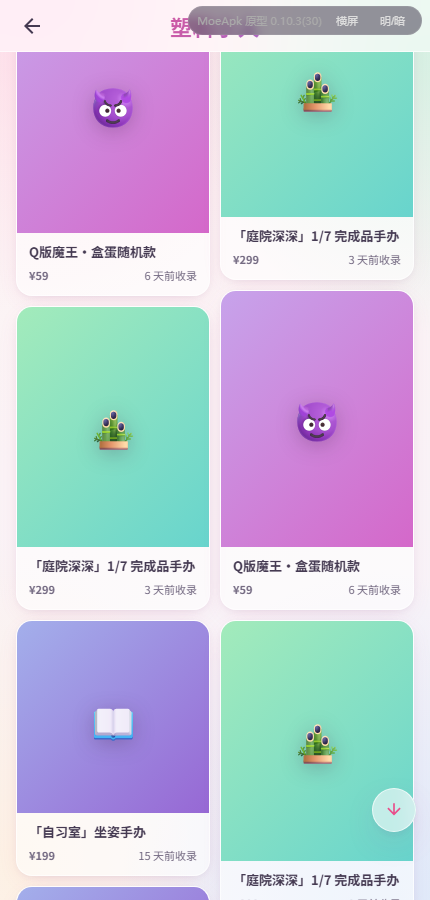
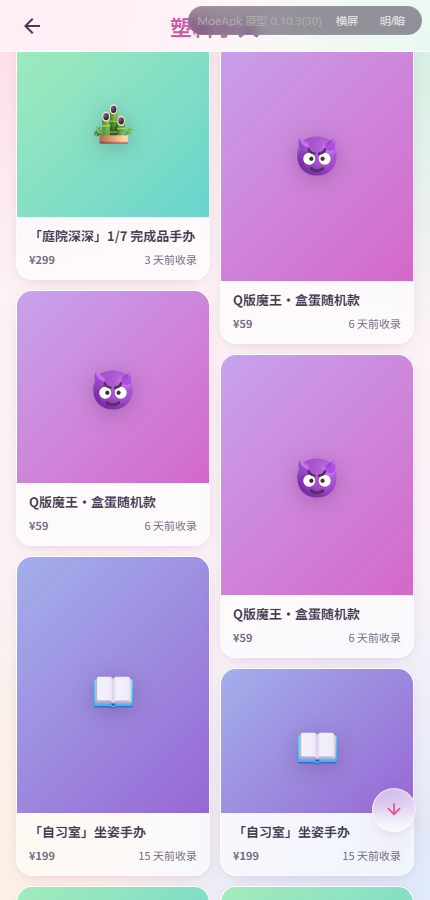
原型: 修复瀑布流滚到底冻住一拍——滚动近底追加批次改只往列表尾部插 DOM 不走整页 render（滚动途中全量重建会打断滚轮平滑滚动动画、逐帧全量重排，上下都动不了），批次计数仍存 S.x 供后续 render 按原长度还原；走查加滚轮连击帧耗回归断言（18ms）；design-notes 第十七轮补修订记录、数据管线备注隐去内网模型部署细节；资源版本号 v=40；PROTO_COMMIT 更新至 267d5aa

diff --git a/index.html b/index.html
@@ -6,7 +6,7 @@
 <title>MoeApk App 原型</title>
 <meta name="theme-color" content="#E94E8A">
 <link rel="icon" type="image/png" href="assets/ic_launcher_fg.png">
-<link rel="stylesheet" href="css/app.css?v=39">
+<link rel="stylesheet" href="css/app.css?v=40">
 </head>
 <body>
 <div class="proto-bar">
@@ -19,30 +19,30 @@
 </div>
 
 <!-- 数据快照（内嵌为全局变量，file:// 直接可开） -->
-<script src="js/data/catalog.js?v=39"></script>
-<script src="js/data/open.js?v=39"></script>
-<script src="js/data/ai.js?v=39"></script>
-<script src="js/data/goods.js?v=39"></script>
+<script src="js/data/catalog.js?v=40"></script>
+<script src="js/data/open.js?v=40"></script>
+<script src="js/data/ai.js?v=40"></script>
+<script src="js/data/goods.js?v=40"></script>
 <!-- 核心层 -->
-<script src="js/icons.js?v=39"></script>
-<script src="js/theme.js?v=39"></script>
-<script src="js/store.js?v=39"></script>
-<script src="js/mock.js?v=39"></script>
-<script src="js/ui.js?v=39"></script>
+<script src="js/icons.js?v=40"></script>
+<script src="js/theme.js?v=40"></script>
+<script src="js/store.js?v=40"></script>
+<script src="js/mock.js?v=40"></script>
+<script src="js/ui.js?v=40"></script>
 <!-- 页面（与 Compose 源文件一一对照，见 README 对照表） -->
-<script src="js/screens/apk.js?v=39"></script>
-<script src="js/screens/goods.js?v=39"></script>
-<script src="js/screens/assets.js?v=39"></script>
-<script src="js/screens/ai.js?v=39"></script>
-<script src="js/screens/ai-llm.js?v=39"></script>
-<script src="js/screens/ai-diffusion.js?v=39"></script>
-<script src="js/screens/ai-tts.js?v=39"></script>
-<script src="js/screens/ai-models.js?v=39"></script>
-<script src="js/screens/download.js?v=39"></script>
-<script src="js/screens/mine.js?v=39"></script>
-<script src="js/screens/pages-account.js?v=39"></script>
-<script src="js/screens/about.js?v=39"></script>
-<script src="js/screens/wallpaper-dialog.js?v=39"></script>
+<script src="js/screens/apk.js?v=40"></script>
+<script src="js/screens/goods.js?v=40"></script>
+<script src="js/screens/assets.js?v=40"></script>
+<script src="js/screens/ai.js?v=40"></script>
+<script src="js/screens/ai-llm.js?v=40"></script>
+<script src="js/screens/ai-diffusion.js?v=40"></script>
+<script src="js/screens/ai-tts.js?v=40"></script>
+<script src="js/screens/ai-models.js?v=40"></script>
+<script src="js/screens/download.js?v=40"></script>
+<script src="js/screens/mine.js?v=40"></script>
+<script src="js/screens/pages-account.js?v=40"></script>
+<script src="js/screens/about.js?v=40"></script>
+<script src="js/screens/wallpaper-dialog.js?v=40"></script>
 <script>
   nav.applyHash();
 </script>

diff --git a/js/screens/goods.js b/js/screens/goods.js
@@ -261,17 +261,21 @@
   }
 
   // 无限瀑布流：接近底部（1.2 屏阈值，提前续上不露白）追加一批。
-  // 同屏重渲染由 scrollMem 保持滚动位置，已加载批次经 S.x.goodsBatches 还原
+  // 只往 .g-falls 尾部插 DOM，绝不走 render——滚动途中整页重建会打断滚轮动画、
+  // 主线程逐帧全量重排（滚到底冻住一拍、上下都动不了的根因）。批次计数照记 S.x，
+  // 之后任何 render（回顶按钮显隐等）都按原长度还原，不丢已加载内容。
   document.addEventListener('scroll', e => {
     const t = e.target;
     if (!t || t.id !== 'content') return;
     if (t.scrollHeight - t.scrollTop - t.clientHeight > t.clientHeight * 1.2) return;
     const cur = nav.current();
     if (!cur || cur.page !== 'goods-cat') return;
+    const falls = t.querySelector('.g-falls');
+    if (!falls) return;
     const nb = batchesOf(cur.arg);
     if (nb >= MAX_BATCH) return;
     S.x.goodsBatches[cur.arg] = nb + 1;
-    render();
+    falls.insertAdjacentHTML('beforeend', fallBatch(cur.arg, nb + 1, S.x.goodsSort || 'new'));
   }, true);
 
   // pager 圆点跟随：直接改 DOM class，不触发 render（避免重建导致 pager 回滚）

diff --git a/js/screens/about.js b/js/screens/about.js
@@ -3,7 +3,7 @@
 // 原型版本约定：PROTO_COMMIT / PROTO_DATE 记录本原型自身的 git 提交，
 // 由维护者在每次提交前更新为当前 HEAD（提交者无需处理）。
 // App 关于页显示同形态的一行，值为其 UX 同步所依据的原型提交。
-const PROTO_COMMIT = '1f0e983';
+const PROTO_COMMIT = '267d5aa';
 const PROTO_DATE = '2026-10-09';
 const PROTO_COMMIT_URL = 'https://github.com/Attect/moeapk-app-ux/commit/';
 

diff --git a/docs/design-notes.md b/docs/design-notes.md
@@ -66,7 +66,9 @@
 
 **原型同步**：新增 `js/screens/goods.js`（tab:goods + goods-cat + goods-detail）、`js/data/goods.js`（14 展厅 + 34 展品演示数据）；`store.js` TABS 插入宅物（第二位）；`ui.js` 引导文案；`icons.js` 新增 redeem/open_in_new；`css/app.css` 新增宅物一节（含暗色与横屏）。`index.html` 资源版本号 v=38。走查截图 shot-30~36。
 
-**数据管线备注**（实施时展开）：muka.cool 后台新增宅物模块直连淘宝联盟 API → AI 加工（多模态筛图 / 标题提炼 / 展厅映射 / 真实价核实）→ JSON feed 输出给 App。加工 LLM 用 B 机 `127.0.0.1:11455/v1`（qwen3.8-flash-next-iq3_s，多模态）——其为 B 本机地址，加工模块需与 B 同机或将该服务暴露给加工方，实施时再定。
+**数据管线备注**（实施时展开）：muka.cool 后台新增宅物模块直连淘宝联盟 API → AI 加工（多模态筛图 / 标题提炼 / 展厅映射 / 真实价核实）→ JSON feed 输出给 App。加工方与模型部署拓扑实施时再定（模型为内网部署，不随原型公开）。
+
+**修订（2026-10-09）**：① 主页策展语轮换取消，标题固定单行「看看有什么好东西」；② 披露压到最短——主页「数据来自淘宝推广渠道」、详情页「信息来自淘宝推广渠道，此处仅作展示不进行交易」，列表页不放任何说明；③ 列表改**无限瀑布流**：滚动近底批次追加（1.2 屏阈值预取）、首屏不足一屏自检补批、切排序批次归一；追加**只往列表尾部插 DOM，不走整页 render**——滚动途中全量重建会打断滚轮平滑滚动动画、逐帧重排，滚到底会冻住一拍（真机教训）；④ 首次引导文案「发现好看的实物，不定期更新」。
 
 ### 第十六轮（2026-09-30，设置面板可隐藏 + 壁纸被系统重置后一步恢复）
 
